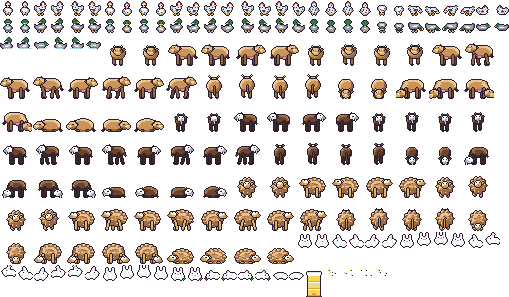
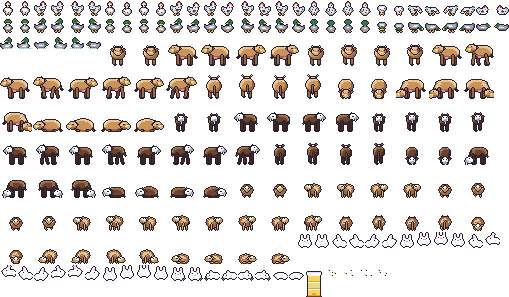
feat(farming-art): replace sheep variant with sheep_brown_baby at 1.00 scale

diff --git a/src/game/farming/LivestockVisualController.ts b/src/game/farming/LivestockVisualController.ts
@@ -45,7 +45,7 @@ const SPECIES_SCALE_BY_ID: Readonly<Record<LivestockSpeciesId, number>> = {
   rabbit: 0.95,
   cow: 1.0,
   goat: 0.95,
-  sheep: 0.95,
+  sheep: 1.0,
   bee: 0.85,
 };
 

diff --git a/scripts/pack-farming-atlases.py b/scripts/pack-farming-atlases.py
@@ -1183,7 +1183,7 @@ def build_all(src_dir: Path) -> None:
         ("duck", "duck/duck_mallard", "duck_mallard", 16, 16),
         ("cow", "cow/cow_jersey", "cow_jersey", 32, 32),
         ("goat", "goat/goat_alpine", "goat_alpine", 32, 32),
-        ("sheep", "sheep/sheep_brown", "sheep_brown", 32, 32),
+        ("sheep", "sheep/sheep_brown_baby", "sheep_brown_baby", 32, 32),
         ("rabbit", "rabbit/rabbit_angora", "rabbit_angora", 16, 16),
     ]
     livestock_actions = (
